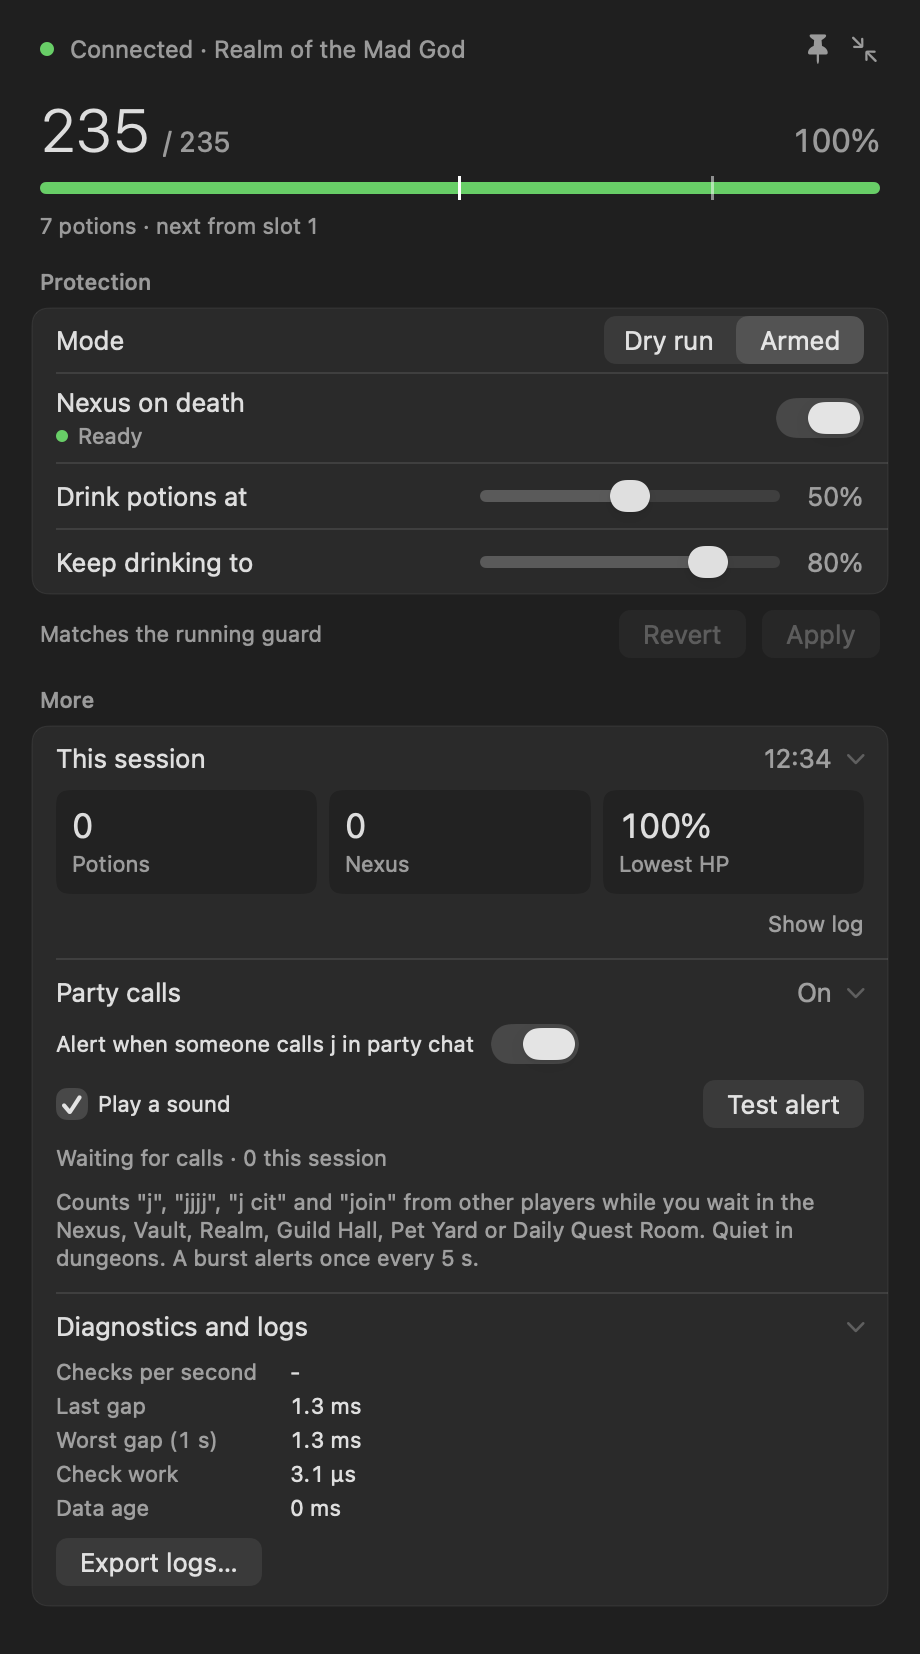
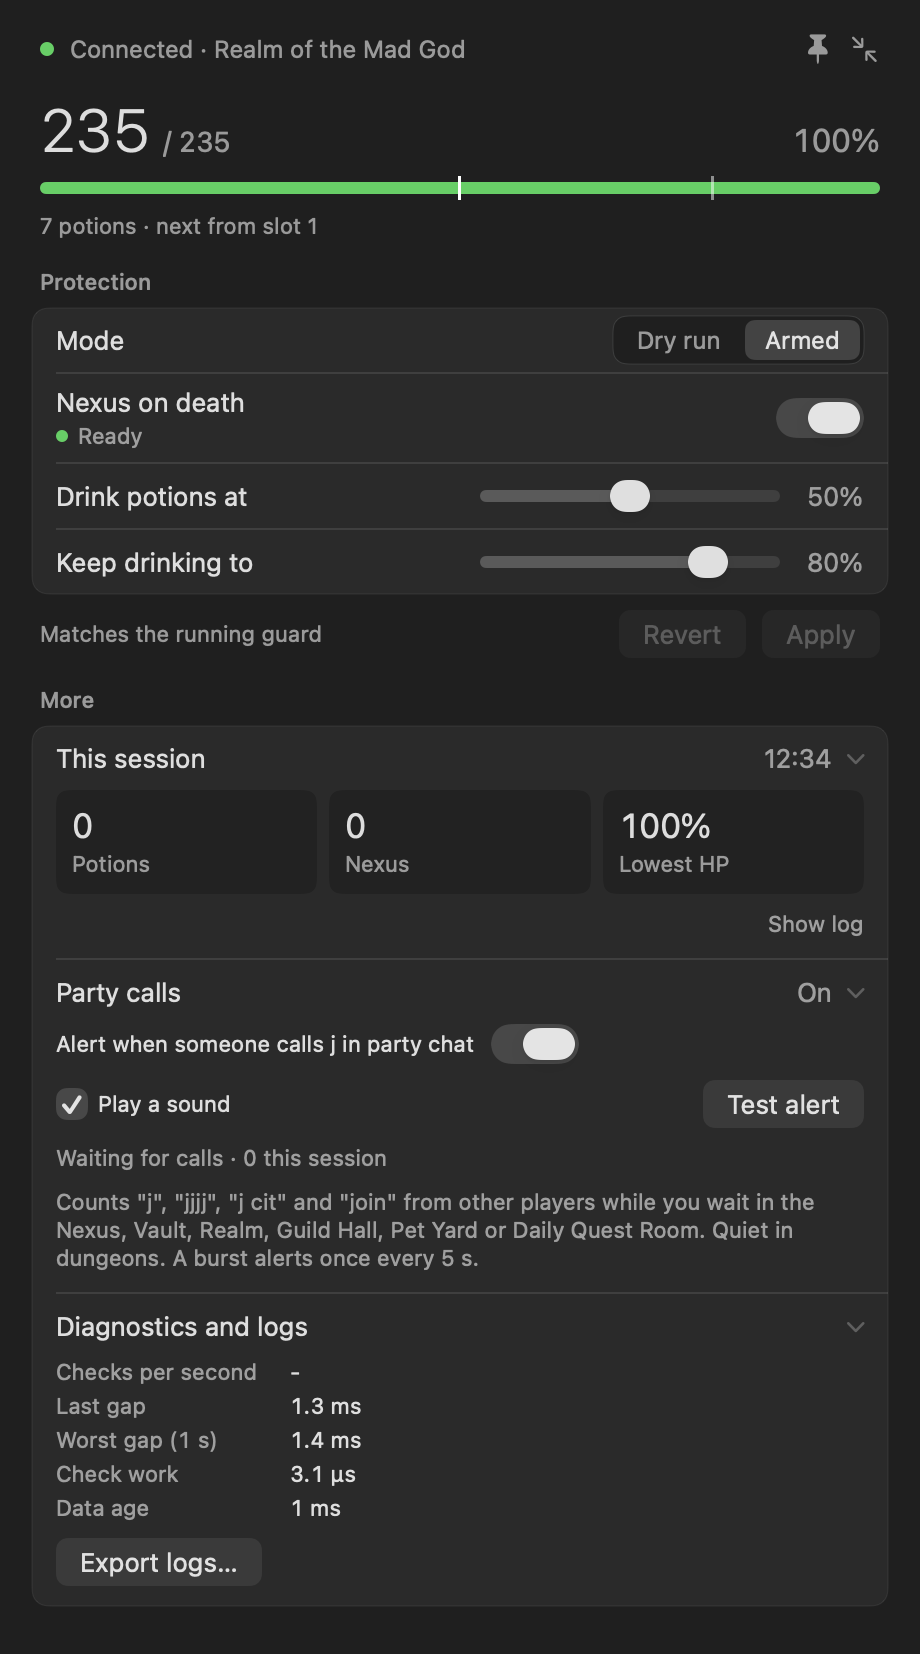
Keep Test alert popups up and stop the panel's CPU climb
Test alert's popup closed within 0.1 s whenever the game was not live or
you were in a dungeon, because it shared the real-call close rules. A
test popup now ignores game state and closes after 8 s or on dismiss.

The native segmented Mode picker was re-measured on every 30 Hz redraw,
and that cost grew without limit: 20% of a core at start, 47% after
4 minutes, 99% after 15 minutes of play. A small SwiftUI switch replaces
it; CPU stays flat at the old panel's level (about 16% on synthetic data).

Changed region(s): [[0.6696, 0.185, 0.9435, 0.2467]]

diff --git a/app/GuardApp.swift b/app/GuardApp.swift
@@ -136,6 +136,7 @@ final class PartyAlerts: ObservableObject {
     @Published private(set) var popup: PartyCall?
     @Published private(set) var joinStatus: JoinStatus = .idle
     private var popupShownAt = 0.0, statusSince = 0.0
+    private var popupIsTest = false
     private var joinSent: UInt32?
     private var lastJoinRequest: UInt32 = 0
     private var tracker = PartyAlertTracker()
@@ -188,7 +189,8 @@ final class PartyAlerts: ObservableObject {
         let status = JoinStatus.evaluate(sent: joinSent, snapshot: source.snapshot, live: source.link.isLive)
         if status != joinStatus { joinStatus = status; statusSince = now }
         guard popup != nil, JoinPopupRules.shouldClose(shownAt: popupShownAt, now: now, snapshot: source.snapshot,
-                                                       live: source.link.isLive, status: joinStatus, statusSince: statusSince)
+                                                       live: source.link.isLive, status: joinStatus, statusSince: statusSince,
+                                                       test: popupIsTest)
         else { return }
         dismiss()
     }
@@ -204,7 +206,8 @@ final class PartyAlerts: ObservableObject {
         }
         GameFocus.bringForward(pid: s.pid)
     }
-    func alert(_ call: PartyCall) {
+    func alert(_ call: PartyCall, test: Bool = false) {
+        popupIsTest = test
         // No banner: the popup already shows over everything, including full-screen video.
         popup = call; popupShownAt = now; joinSent = nil; joinStatus = .idle
         #if !GUARD_UI_TEST
@@ -419,6 +422,35 @@ struct PanelSection<Content: View>: View {
     }
 }
 
+/// Dry run | Armed, drawn in SwiftUI. The native segmented Picker re-measures its AppKit
+/// control on every 30 Hz redraw, and that cost grew without limit (99% CPU after 15 minutes).
+struct ModeSwitch: View {
+    @Binding var armed: Bool
+    var body: some View {
+        HStack(spacing: 2) {
+            segment("Dry run", value: false)
+            segment("Armed", value: true)
+        }
+        .padding(2)
+        .background(Color.black.opacity(0.25))
+        .clipShape(RoundedRectangle(cornerRadius: 7))
+        .overlay(RoundedRectangle(cornerRadius: 7).stroke(Color.white.opacity(0.1), lineWidth: 0.5))
+    }
+    private func segment(_ title: String, value: Bool) -> some View {
+        let selected = armed == value
+        return Button { if !selected { armed = value } } label: {
+            Text(title).font(.system(size: 12))
+                .foregroundStyle(selected ? Color.primary : Color.secondary)
+                .padding(.horizontal, 10).frame(height: 20)
+                .background(selected ? Color.white.opacity(0.16) : Color.clear)
+                .clipShape(RoundedRectangle(cornerRadius: 5))
+                .contentShape(Rectangle())
+        }
+        .buttonStyle(.plain)
+        .accessibilityAddTraits(selected ? .isSelected : [])
+    }
+}
+
 /// One line of a section: label on the left, value or control on the right.
 struct PanelRow<Content: View>: View {
     @ViewBuilder var content: Content
@@ -599,14 +631,10 @@ struct GuardPanel {
                     Text("Mode")
                     Spacer()
                     // Applies at once, unlike the rows below.
-                    Picker("Mode", selection: Binding(get: { settings.draft.armed }, set: { value in
+                    ModeSwitch(armed: Binding(get: { settings.draft.armed }, set: { value in
                         var next = running?.settings ?? settings.draft; next.armed = value
                         settings.apply(next, source: source)
-                    })) {
-                        Text("Dry run").tag(false)
-                        Text("Armed").tag(true)
-                    }
-                    .pickerStyle(.segmented).labelsHidden().fixedSize()
+                    }))
                     .help("Dry run only shows what it would do. Armed drinks and Nexuses for you. Applies immediately.")
                 }
                 RowDivider()
@@ -767,7 +795,7 @@ struct GuardPanel {
                 Toggle("Play a sound", isOn: $alerts.settings.sound).toggleStyle(.checkbox)
                 Spacer()
                 Button("Test alert") {
-                    alerts.alert(PartyCall(caller: "Test", text: "j cit", epoch: Date().timeIntervalSince1970, count: 0))
+                    alerts.alert(PartyCall(caller: "Test", text: "j cit", epoch: Date().timeIntervalSince1970, count: 0), test: true)
                 }
             }
             .disabled(!alerts.settings.enabled)

diff --git a/app/GuardModelTests.swift b/app/GuardModelTests.swift
@@ -150,6 +150,9 @@ private func sample() -> LiveData {
         check(!JoinPopupRules.shouldClose(shownAt: 0, now: 5, snapshot: inHub, live: true, status: .sent, statusSince: 3), "shows Join sent briefly")
         check(JoinPopupRules.shouldClose(shownAt: 0, now: 8, snapshot: inHub, live: true, status: .sent, statusSince: 3), "then closes")
         check(!JoinPopupRules.shouldClose(shownAt: 0, now: 30, snapshot: inHub, live: true, status: .failed("x"), statusSince: 3), "an error stays visible")
+        check(!JoinPopupRules.shouldClose(shownAt: 0, now: 5, snapshot: nil, live: false, status: .idle, statusSince: 0, test: true), "a test stays with the game closed")
+        check(!JoinPopupRules.shouldClose(shownAt: 0, now: 5, snapshot: dungeon, live: true, status: .idle, statusSince: 0, test: true), "a test stays in a dungeon")
+        check(JoinPopupRules.shouldClose(shownAt: 0, now: 8, snapshot: inHub, live: true, status: .idle, statusSince: 0, test: true), "a test goes after 8 s")
 
         // Outcome text.
         let texts = [0: "dry run", 1: "sent", -1: "game error, disarmed", -2: "target unavailable", -3: "no potions"]

diff --git a/app/GuardModel.swift b/app/GuardModel.swift
@@ -229,12 +229,15 @@ enum JoinStatus: Equatable {
 }
 
 /// When the Join popup for a call goes away: once you are in a dungeon, a few seconds after a
-/// join went through, or after `timeout` with no answer.
+/// join went through, or after `timeout` with no answer. A Test alert popup ignores the game,
+/// so it also works with the game closed or in a dungeon, and goes after `testTimeout`.
 enum JoinPopupRules {
     static let timeout = 90.0
+    static let testTimeout = 8.0
     static let afterJoin = 4.0
     static func shouldClose(shownAt: Double, now: Double, snapshot: GuardSnapshot?, live: Bool,
-                            status: JoinStatus, statusSince: Double) -> Bool {
+                            status: JoinStatus, statusSince: Double, test: Bool = false) -> Bool {
+        if test { return now - shownAt >= testTimeout }
         if now - shownAt >= timeout || !live { return true }
         if let s = snapshot, !WaitingMaps.contains(s) { return true }
         return status == .sent && now - statusSince >= afterJoin
